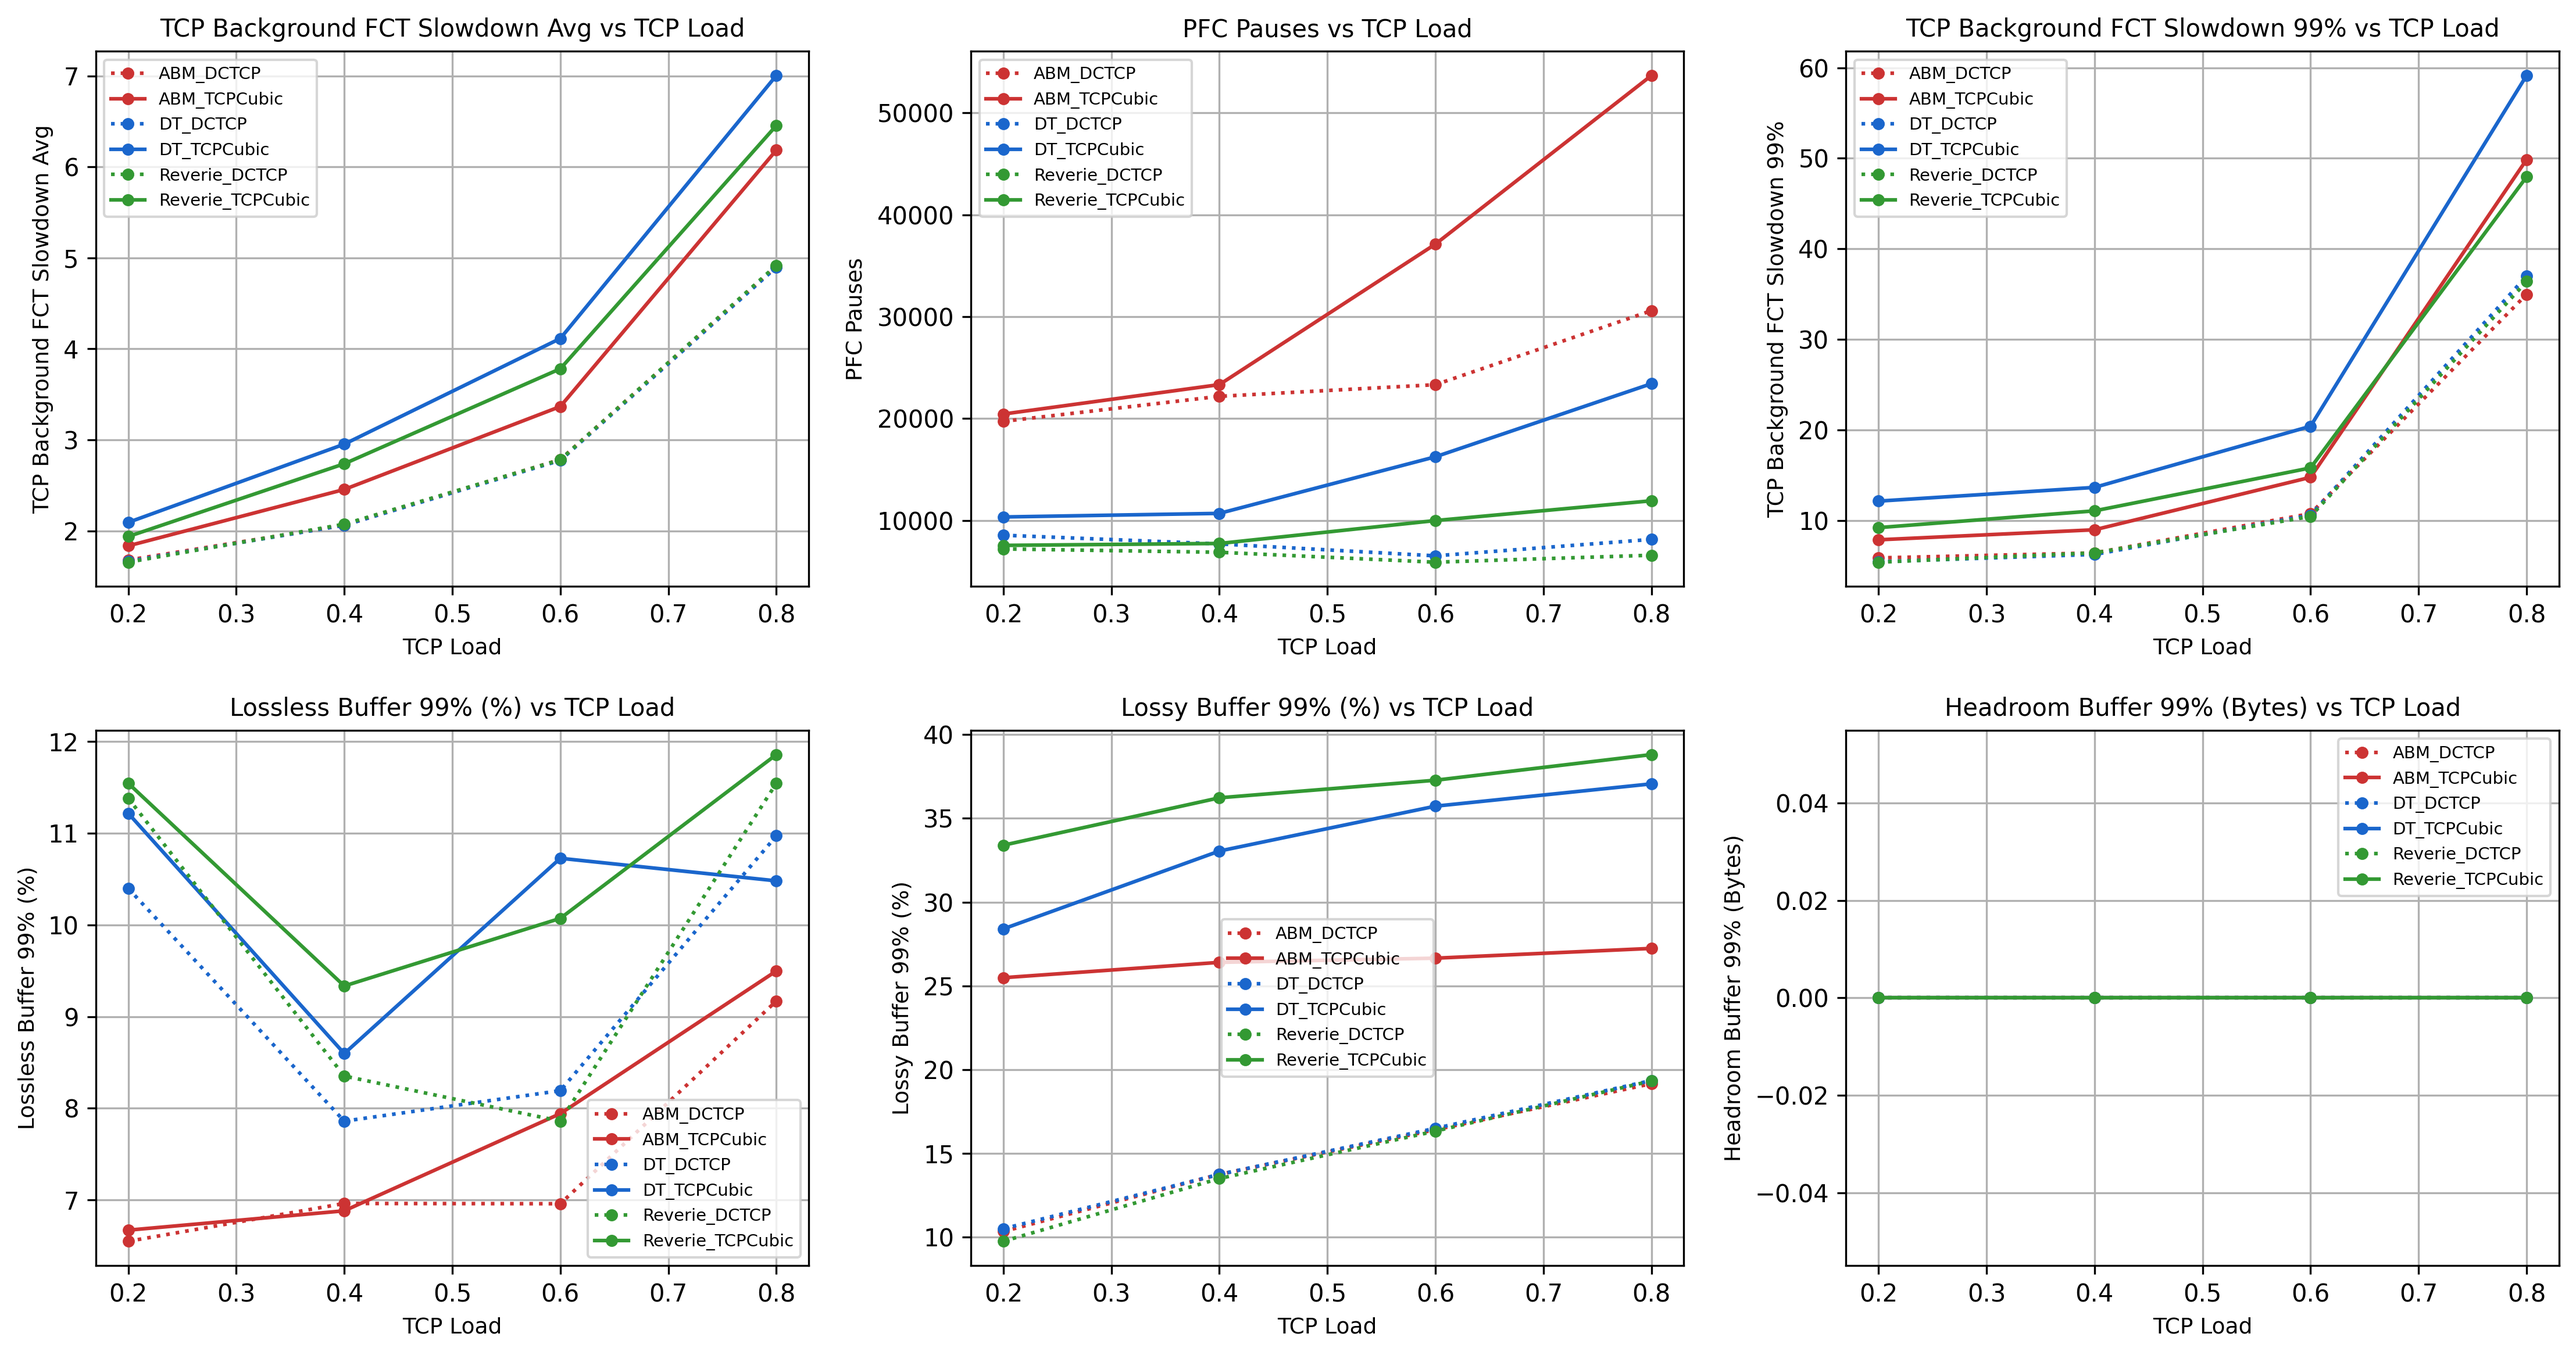
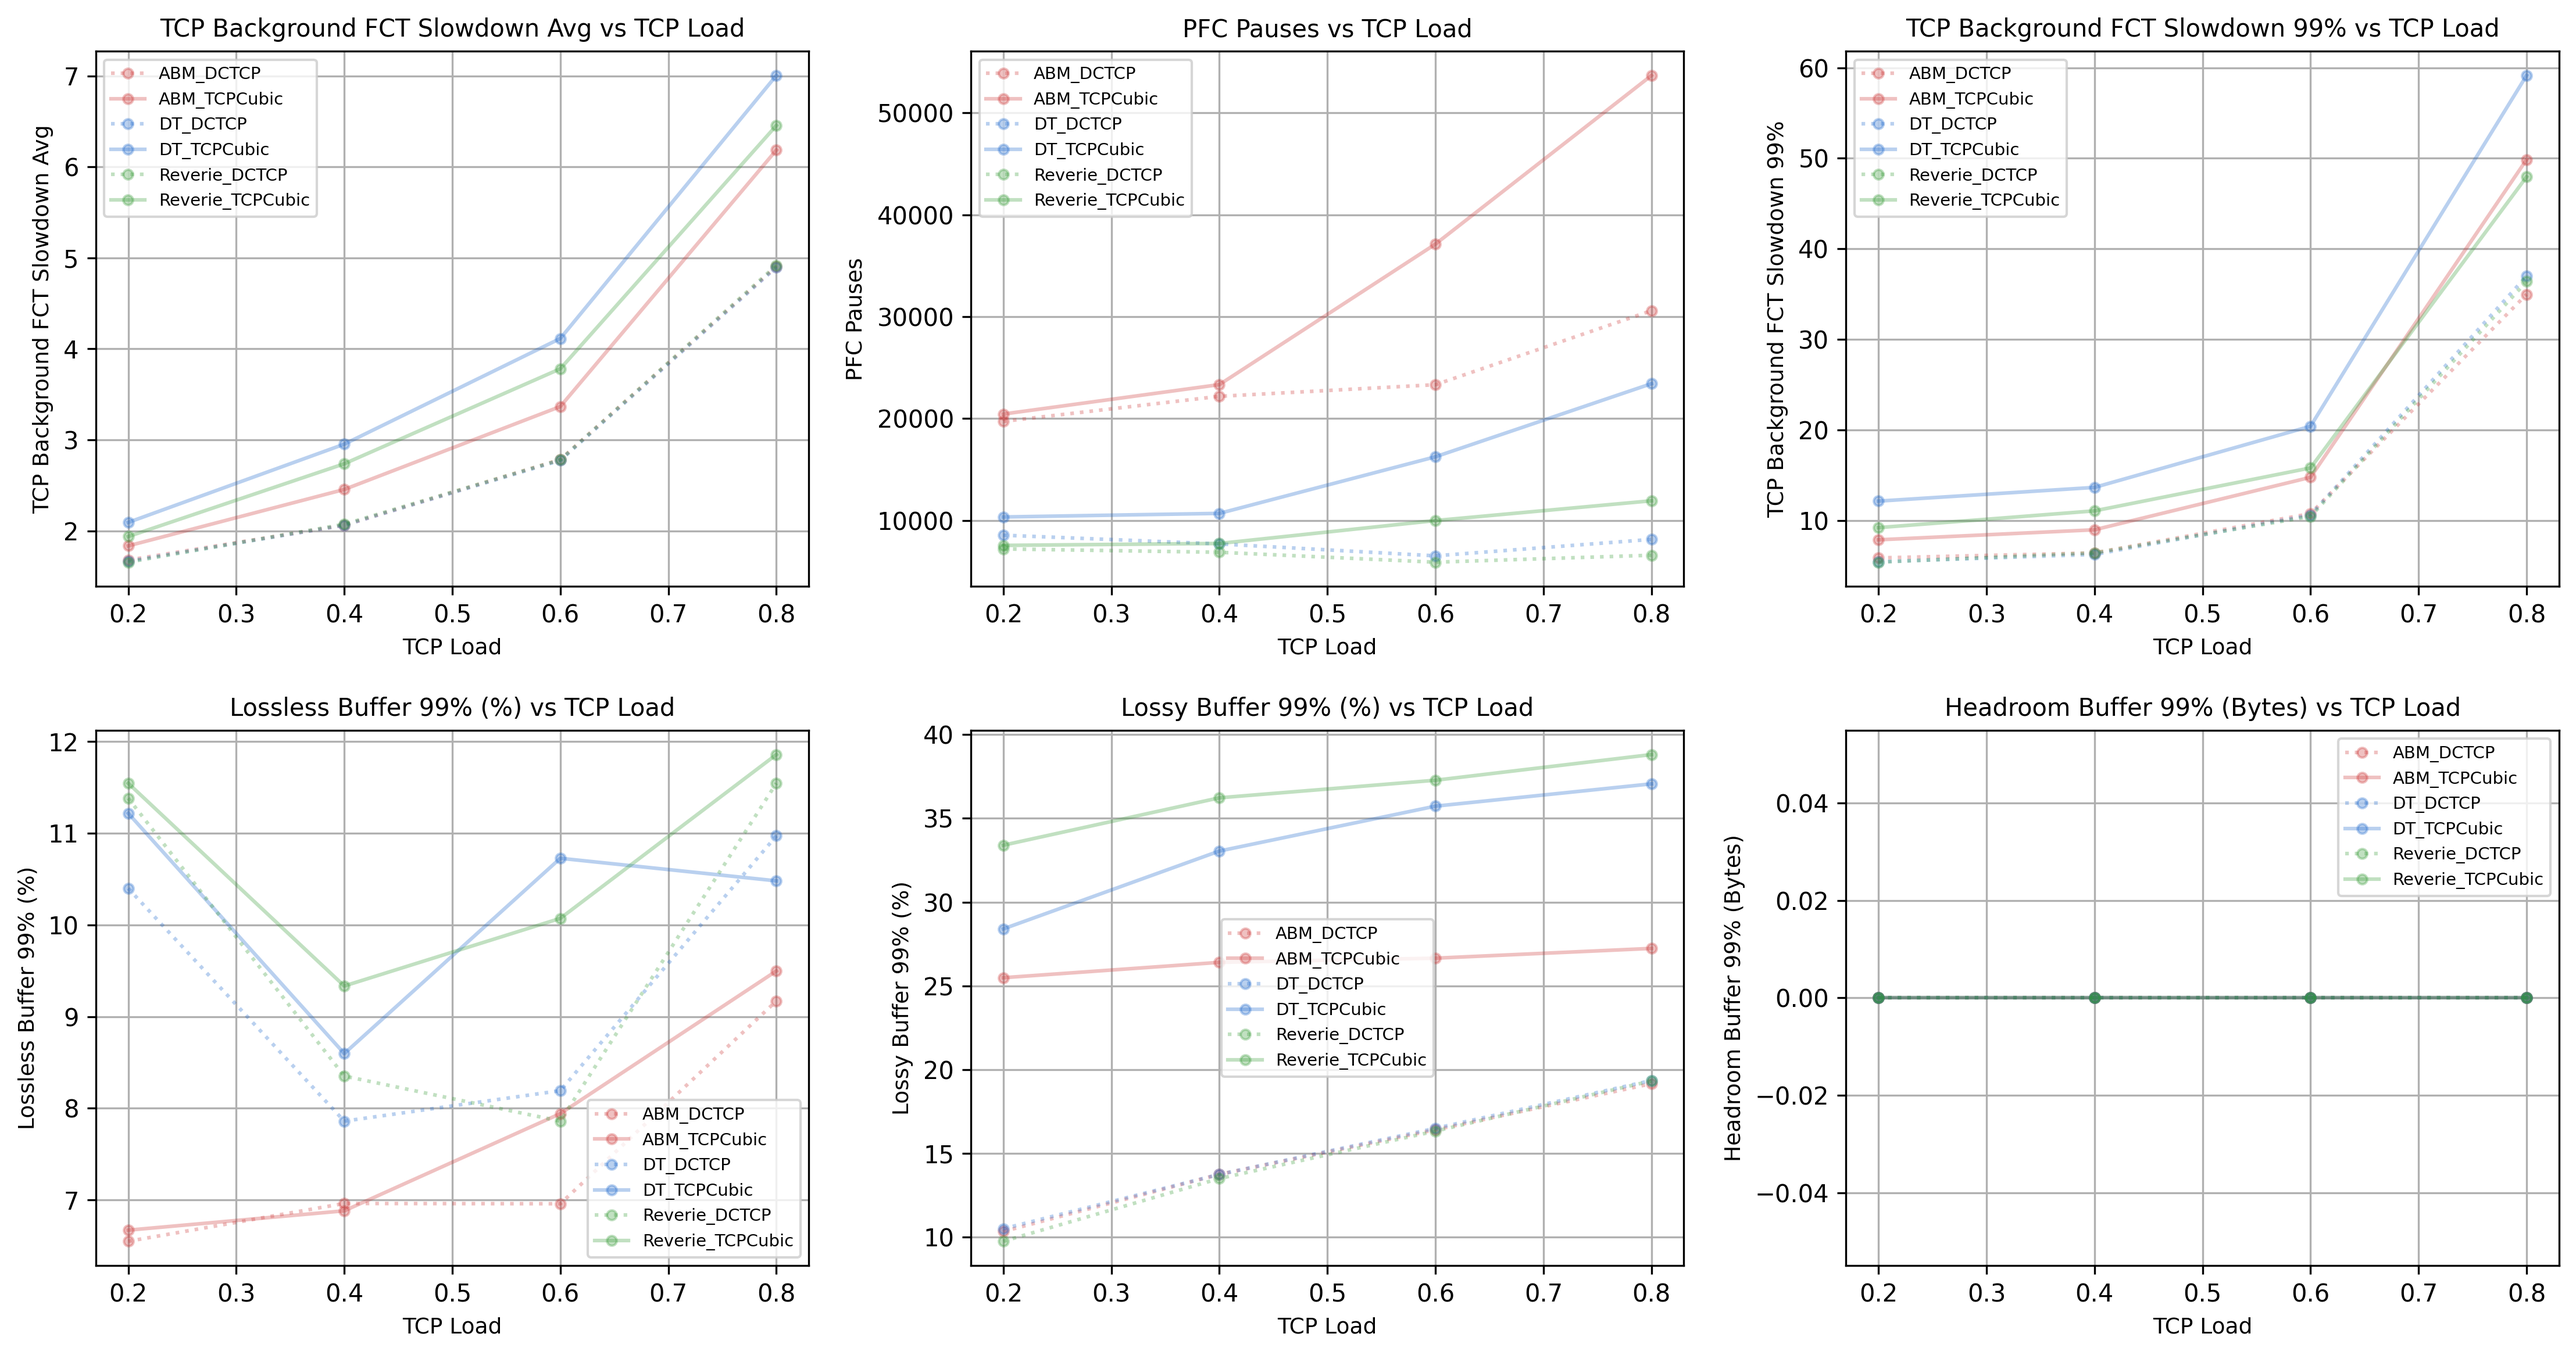
Mods to See Overlapping Graphs

diff --git a/new_plots_combined_results.py b/new_plots_combined_results.py
@@ -77,7 +77,8 @@ for filename, config in column_config.items():
                 linestyle=linestyle,
                 marker='o',
                 linewidth=1.5,
-                markersize=4
+                markersize=4,
+                alpha=0.3
             )
 
         ax.set_title(f"{metric} vs {x_col}", fontsize=10)
